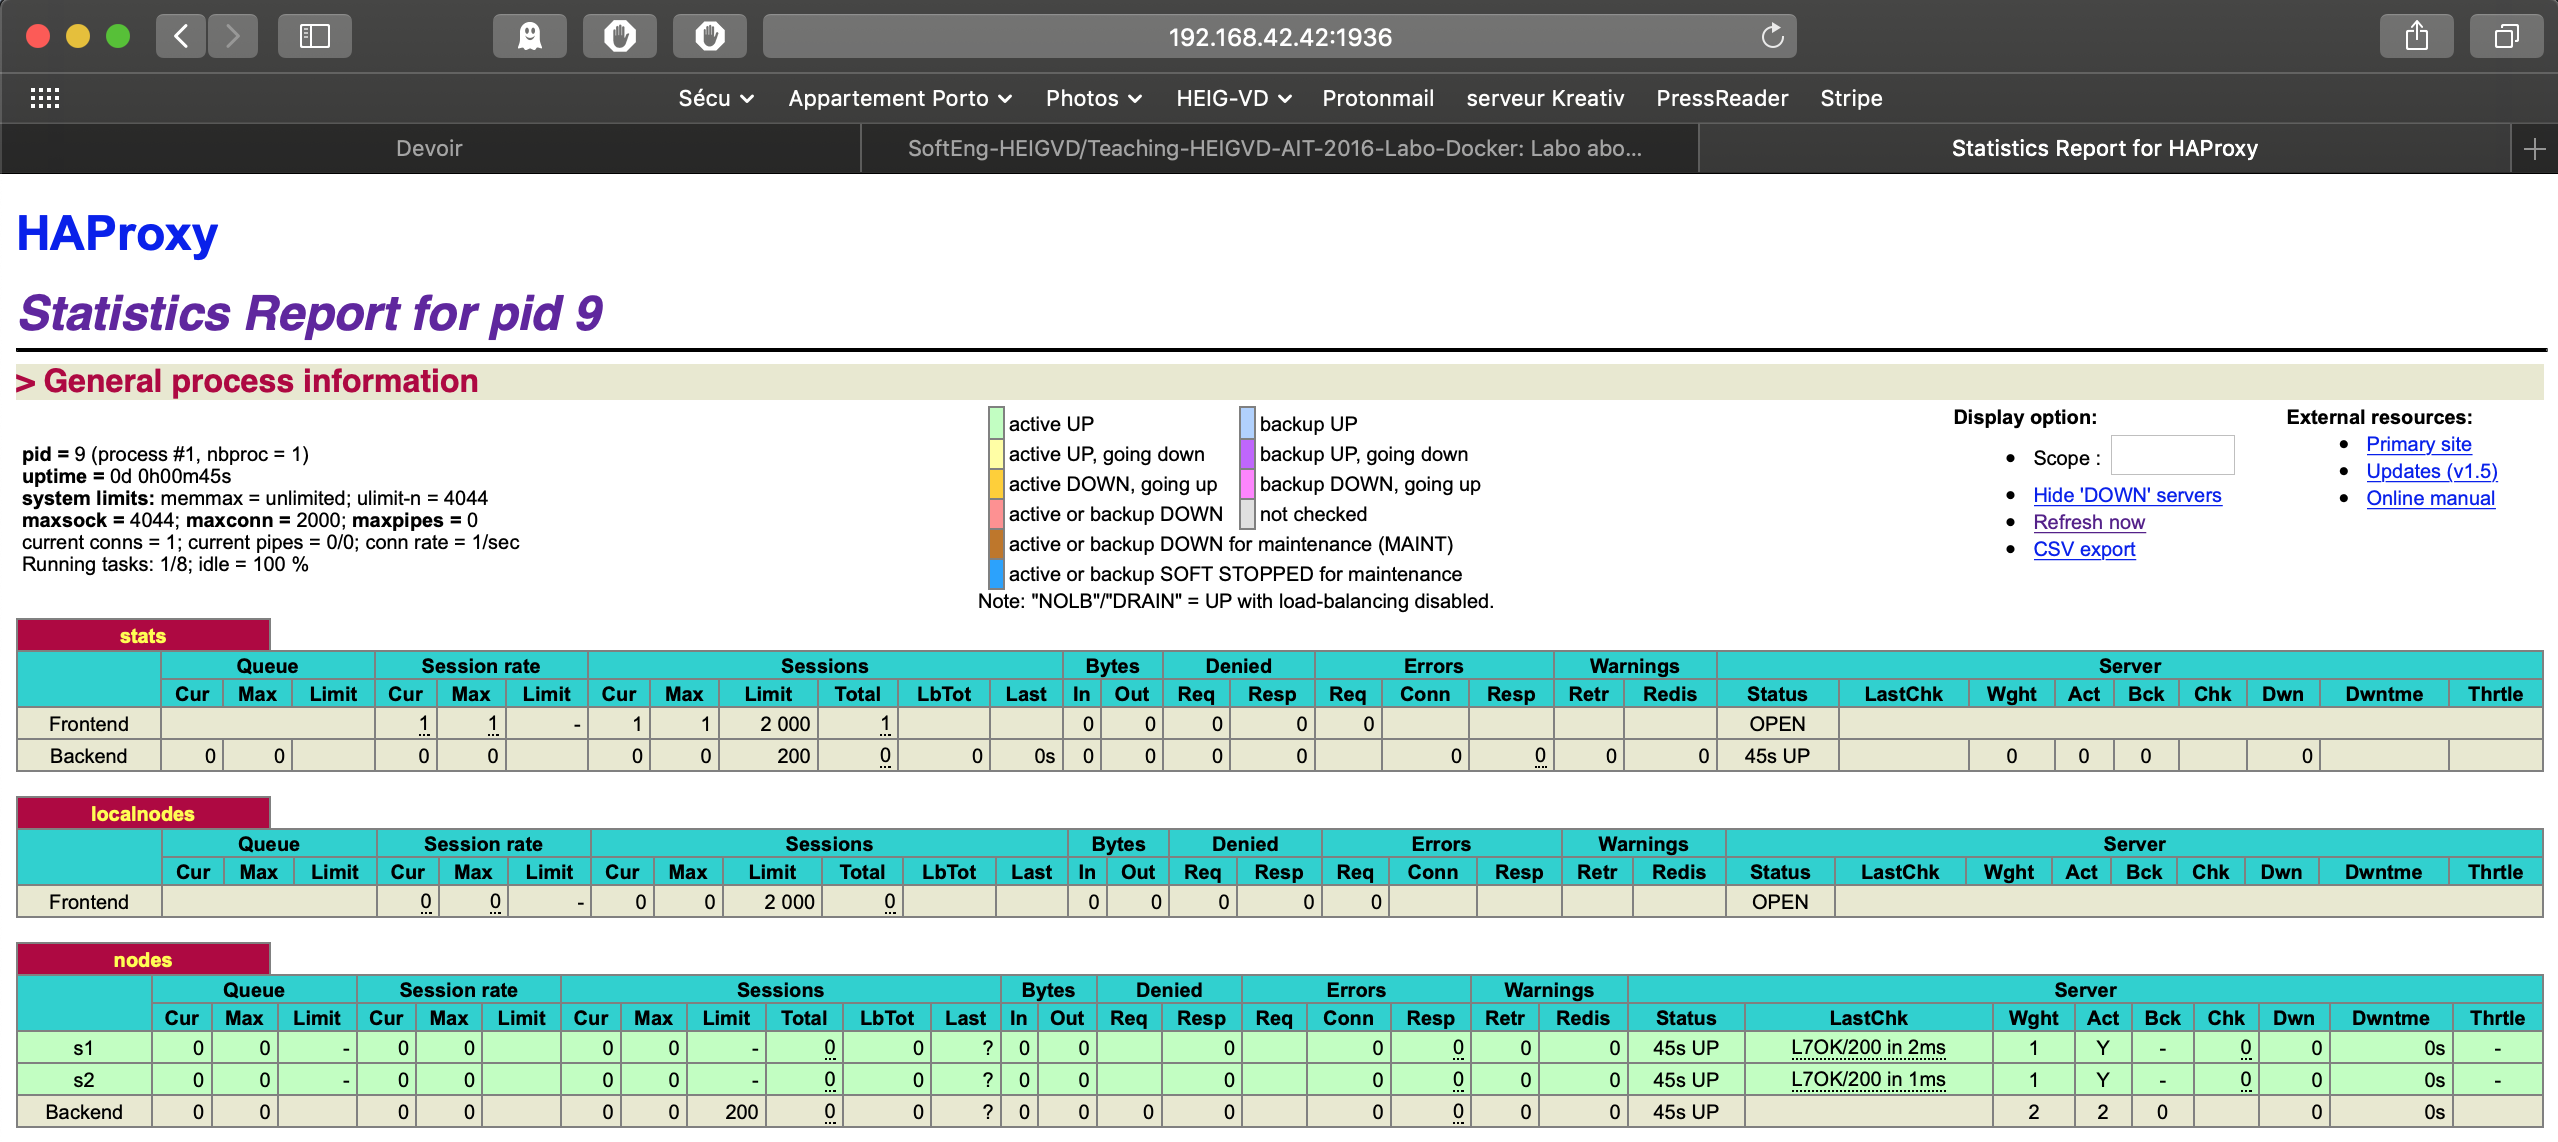
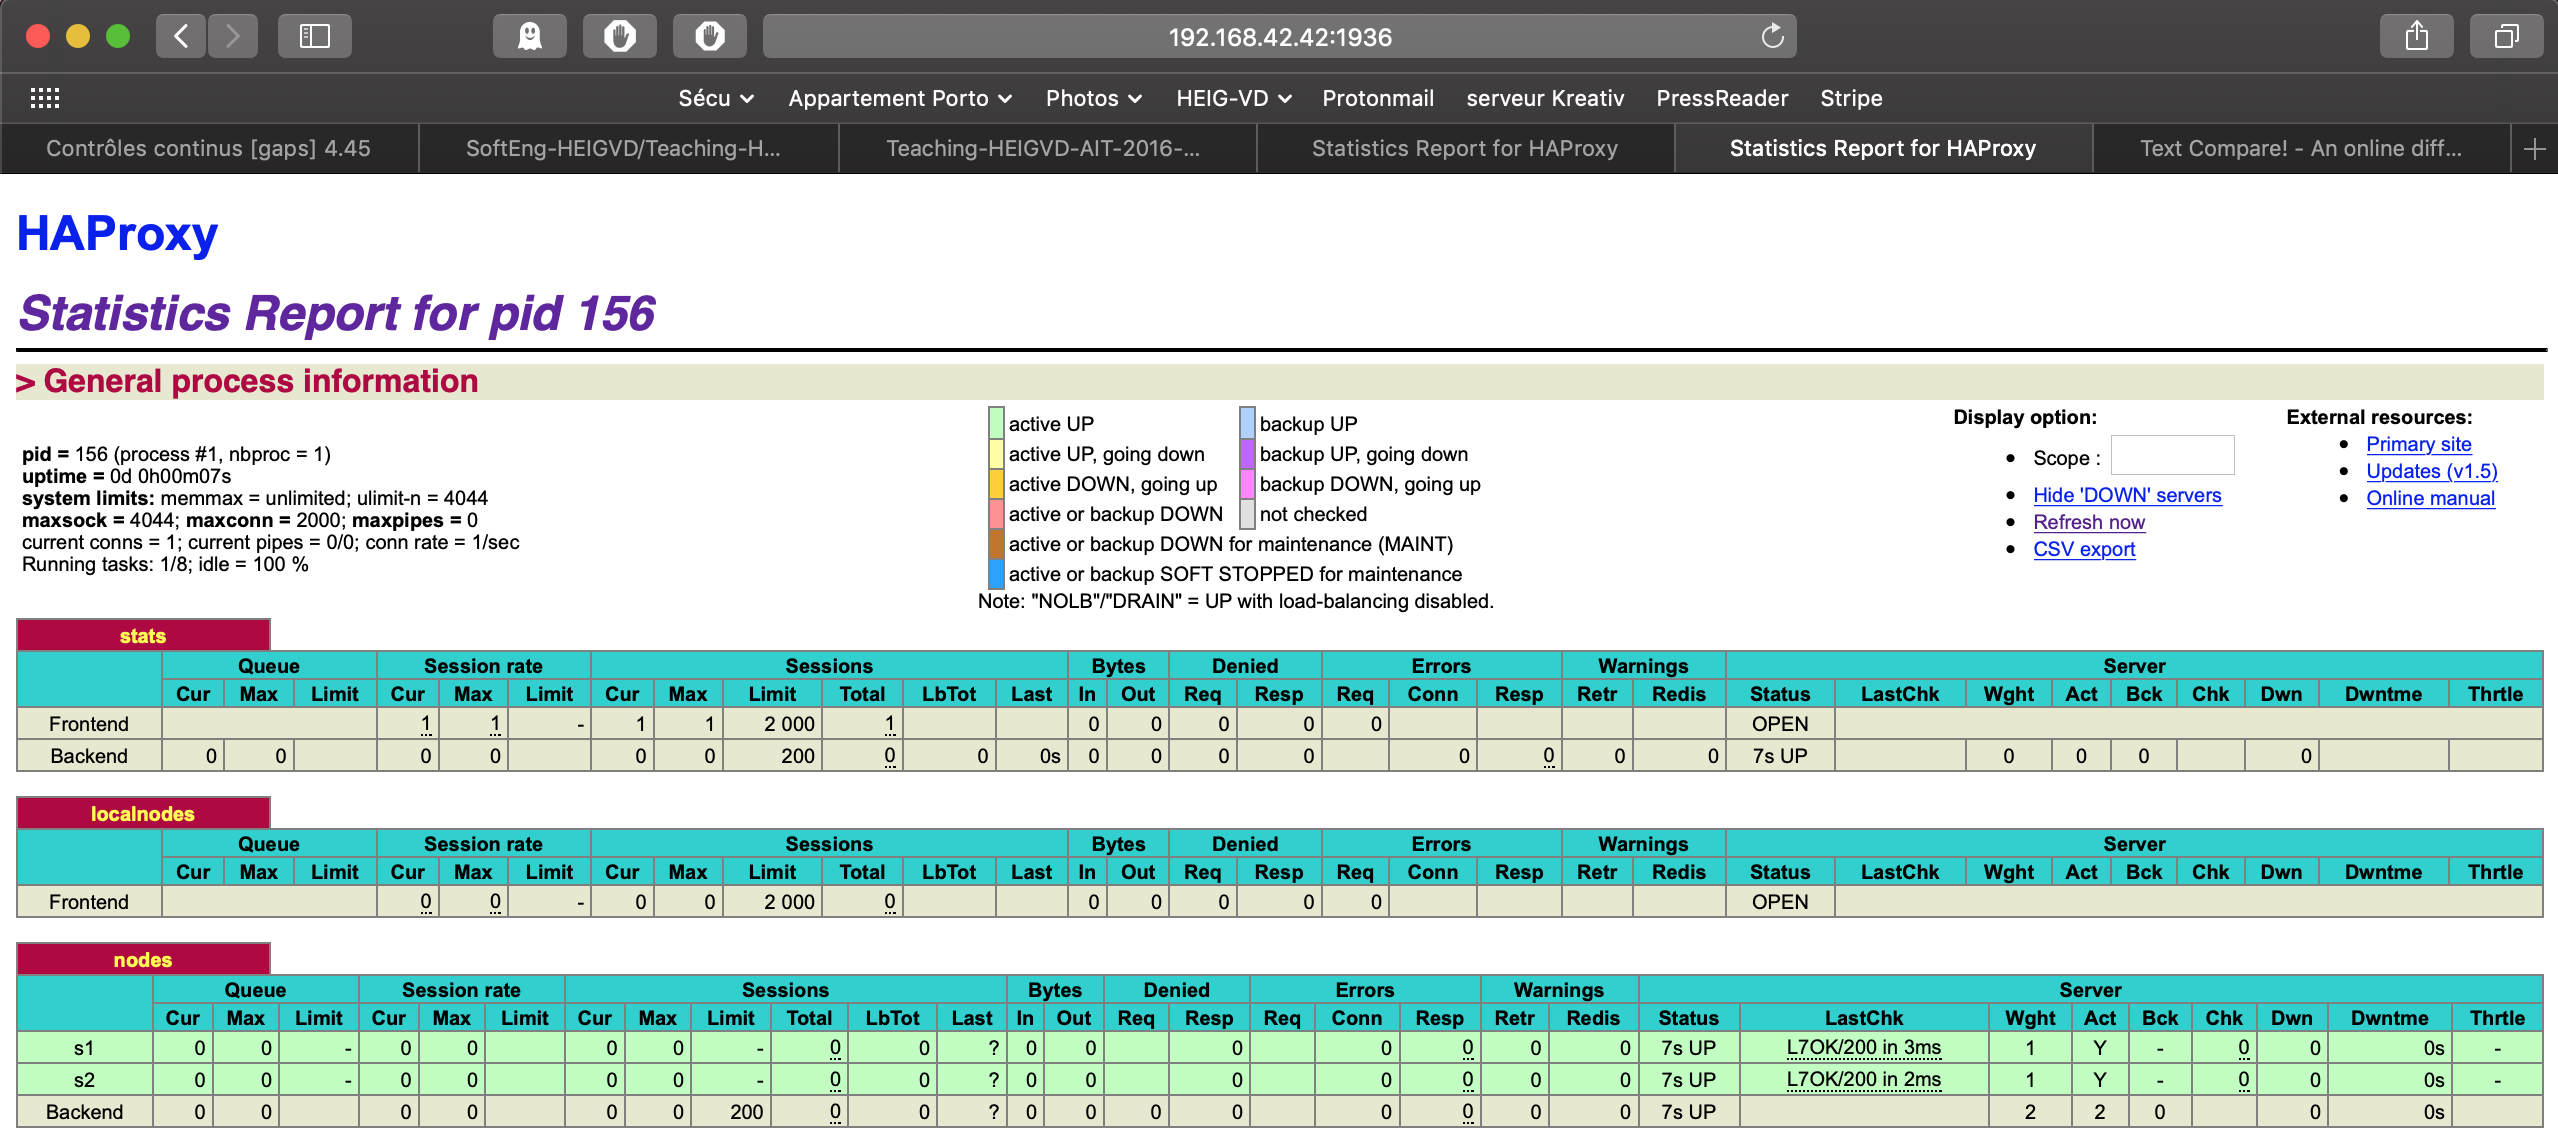
Task 1 really finished (cleaning Dockerfile) + Begining of Task 2

diff --git a/README.md b/README.md
@@ -8,7 +8,7 @@ __Date:__ 05.01.2019
 
 Dans ce labo, l'objectif est de de découvrir le scaling dynamic, par le biais d'une infrastructure docker.
 
-## 1. Task 0: Identify issues and install the tools
+## 1. Task 0 : Identify issues and install the tools
 
 Pour cette tâche, il est demandé de réaliser les mêmes opérations que pour le précédent labo. Voici les réponses aux questions posées dans cette tâche:
 
@@ -18,11 +18,15 @@ Pour cette tâche, il est demandé de réaliser les mêmes opérations que pour 
 
 2) Voici l'adresse du repo Github du labo: https://github.com/p-stackouse/Teaching-HEIGVD-AIT-2016-Labo-Docker
 
-## 2. Task 1: Add a process supervisor to run several processes
+## 2. Task 1 : Add a process supervisor to run several processes
 
 1) Voicie la capture d'écran de la page d'accueil du serveur proxy:
 
-![image-20190105151654511](/Users/patrickneto/Library/Application Support/typora-user-images/image-20190105151654511.png)
+![image-20190105151654511](./assets/img/02.png)
 
 2) Je n'ai pas eu de difficulté particulière pour la réalisation de cette tâche.
+
+<p style="color:red">[A FAIRE: explication du concept de superviseur]</p>
+
+## 3. Task 2 : Add a tool to manage membership in the web server cluster
 
